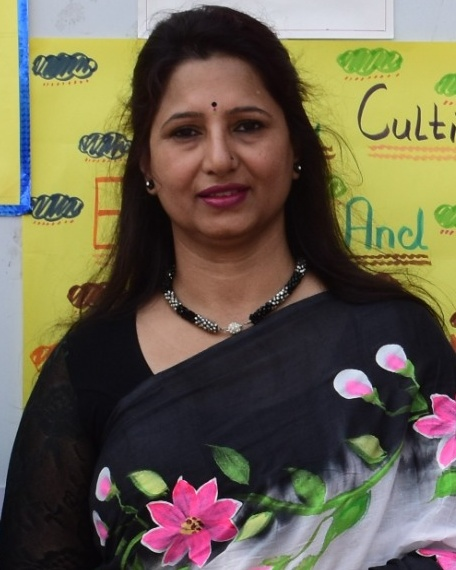
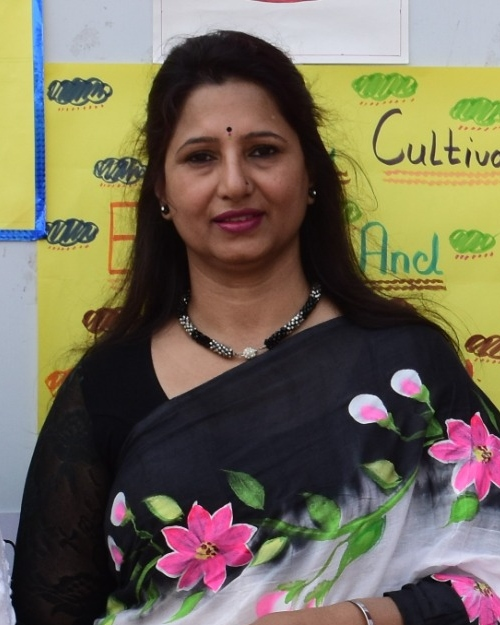
fix(layout): expand photo to occupy redmark box, preserve head alignment, and give full-screen view to all tab sections

diff --git a/index.html b/index.html
@@ -219,9 +219,9 @@
     </section>
 
     <!-- ----------------- 02. BEYOND THE TITLE ----------------- -->
-    <section id="the-person" class="py-16 sm:py-24 px-4 sm:px-6 lg:px-14 bg-ivory text-slate-900 relative">
-        <div class="max-w-7xl mx-auto">
-            <div class="text-center max-w-3xl mx-auto mb-10 sm:mb-16">
+    <section id="the-person" class="min-h-[85vh] flex flex-col justify-center py-16 sm:py-24 px-4 sm:px-6 lg:px-14 bg-ivory text-slate-900 relative">
+        <div class="max-w-7xl mx-auto w-full">
+            <div class="text-center max-w-3xl mx-auto mb-10 sm:mb-14">
                 <span class="section-tag section-tag-light">The Person</span>
                 <h2 class="text-2xl sm:text-4xl lg:text-5xl font-serif font-bold text-slate-900 mb-2">
                     Beyond the Principal’s Office
@@ -230,30 +230,32 @@
                     “A school leader is more than a designation.”
                 </p>
                 <div class="w-16 h-1 bg-gold mx-auto mb-5 sm:mb-6"></div>
-                <p id="person-lead-story" class="dropcap font-editorial text-lg sm:text-xl lg:text-2xl text-slate-700 leading-relaxed italic text-left sm:text-center">
+                <p id="person-lead-story" class="dropcap font-editorial text-lg sm:text-xl lg:text-2xl text-slate-700 leading-relaxed italic text-left sm:text-center max-w-4xl mx-auto">
                     <!-- Hydrated via profile-data.js -->
                 </p>
             </div>
 
             <!-- Content Grid: Photography + 4 Storytelling Cards -->
-            <div class="flex flex-col lg:flex-row items-center lg:items-stretch justify-center gap-6 lg:gap-8 max-w-5xl mx-auto">
-                <!-- Photography alongside text: adjusts to match 4 cards height -->
-                <div class="w-full max-w-[270px] sm:max-w-[280px] lg:w-[280px] flex-shrink-0 flex flex-col rounded-2xl overflow-hidden shadow-xl border-4 border-white bg-slate-100">
-                    <div class="relative w-full aspect-[4/5] lg:aspect-auto lg:flex-1 overflow-hidden min-h-[220px]">
-                        <img id="person-candid-img" 
-                             src="assets/images/varsha_phukane_candid_portrait.jpg?v=2" 
-                             alt="Varsha Phukane — Principal" 
-                             class="absolute inset-0 w-full h-full object-cover object-[50%_15%] block">
-                    </div>
-                    <div class="p-2.5 sm:p-3 bg-white/95 border-t border-slate-200 flex-shrink-0 text-center">
-                        <p id="person-candid-caption" class="text-xs font-semibold tracking-wide text-slate-800">
-                            Varsha Phukane — Principal, Educational Leader & Mentor
-                        </p>
+            <div class="grid grid-cols-1 lg:grid-cols-12 gap-6 lg:gap-8 items-stretch w-full max-w-6xl mx-auto">
+                <!-- Photography: Occupies full redmark area, perfectly matching cards top & bottom -->
+                <div class="lg:col-span-5 flex flex-col h-full w-full">
+                    <div class="relative w-full h-full flex flex-col rounded-2xl overflow-hidden shadow-xl border-4 border-white bg-slate-100">
+                        <div class="relative w-full aspect-[4/5] lg:aspect-auto lg:flex-1 overflow-hidden min-h-[260px]">
+                            <img id="person-candid-img" 
+                                 src="assets/images/varsha_phukane_candid_portrait.jpg?v=6" 
+                                 alt="Varsha Phukane — Principal" 
+                                 class="absolute inset-0 w-full h-full object-cover object-[50%_0%] block">
+                        </div>
+                        <div class="p-3 sm:p-3.5 bg-white/95 border-t border-slate-200 flex-shrink-0 text-center">
+                            <p id="person-candid-caption" class="text-xs sm:text-sm font-semibold tracking-wide text-slate-800 whitespace-nowrap">
+                                Varsha Phukane — Principal, Educational Leader & Mentor
+                            </p>
+                        </div>
                     </div>
                 </div>
 
                 <!-- 4 Editorial Cards: EDUCATOR, LEADER, MENTOR, LEARNER -->
-                <div id="person-cards-container" class="grid grid-cols-1 sm:grid-cols-2 gap-4 sm:gap-5 flex-1 w-full">
+                <div id="person-cards-container" class="lg:col-span-7 grid grid-cols-1 sm:grid-cols-2 gap-4 sm:gap-5 h-full">
                     <!-- Hydrated via profile-data.js -->
                 </div>
             </div>
@@ -261,10 +263,10 @@
     </section>
 
     <!-- ----------------- 03. MY JOURNEY ----------------- -->
-    <section id="journey" class="py-16 sm:py-24 px-4 sm:px-6 lg:px-14 bg-navy-dark relative overflow-hidden">
+    <section id="journey" class="min-h-[88vh] flex flex-col justify-center py-20 sm:py-28 px-4 sm:px-6 lg:px-14 bg-navy-dark relative overflow-hidden">
         <div class="glow-orb-gold -bottom-24 -right-24 opacity-40"></div>
 
-        <div class="max-w-7xl mx-auto relative z-10">
+        <div class="max-w-7xl mx-auto relative z-10 w-full">
             <div class="flex flex-col md:flex-row md:items-end justify-between mb-10 sm:mb-16 gap-4 sm:gap-6">
                 <div>
                     <span class="section-tag">Timeline</span>
@@ -289,8 +291,8 @@
     </section>
 
     <!-- ----------------- 04. LEADERSHIP PHILOSOPHY ----------------- -->
-    <section id="philosophy" class="py-16 sm:py-24 px-4 sm:px-6 lg:px-14 bg-cream text-slate-900 relative">
-        <div class="max-w-7xl mx-auto">
+    <section id="philosophy" class="min-h-[88vh] flex flex-col justify-center py-20 sm:py-28 px-4 sm:px-6 lg:px-14 bg-cream text-slate-900 relative">
+        <div class="max-w-7xl mx-auto w-full">
             <div class="text-center max-w-3xl mx-auto mb-10 sm:mb-16">
                 <span class="section-tag section-tag-light">Philosophy</span>
                 <h2 class="text-2xl sm:text-4xl lg:text-5xl font-serif font-bold text-slate-900 mb-2 sm:mb-3">
@@ -310,8 +312,8 @@
     </section>
 
     <!-- ----------------- 05. IMPACT ----------------- -->
-    <section id="impact" class="py-16 sm:py-24 px-4 sm:px-6 lg:px-14 bg-navy-deep relative">
-        <div class="max-w-7xl mx-auto">
+    <section id="impact" class="min-h-[88vh] flex flex-col justify-center py-20 sm:py-28 px-4 sm:px-6 lg:px-14 bg-navy-deep relative">
+        <div class="max-w-7xl mx-auto w-full">
             <div class="text-center max-w-3xl mx-auto mb-10 sm:mb-16">
                 <span class="section-tag">Quantitative Milestones</span>
                 <h2 class="text-2xl sm:text-4xl lg:text-5xl font-serif font-bold text-white mb-2 sm:mb-4">
@@ -340,7 +342,7 @@
     </section>
 
     <!-- ----------------- 06. SIGNATURE INITIATIVES ----------------- -->
-    <section id="initiatives" class="py-16 sm:py-24 px-4 sm:px-6 lg:px-14 bg-ivory text-slate-900 relative">
+    <section id="initiatives" class="min-h-[88vh] flex flex-col justify-center py-20 sm:py-28 px-4 sm:px-6 lg:px-14 bg-ivory text-slate-900 relative">
         <div class="max-w-7xl mx-auto">
             <div class="flex flex-col md:flex-row md:items-end justify-between mb-10 sm:mb-16 gap-4 sm:gap-6">
                 <div>
@@ -366,8 +368,8 @@
     </section>
 
     <!-- ----------------- 07. LIFE @ SCHOOL ----------------- -->
-    <section id="photo-story" class="py-16 sm:py-24 px-4 sm:px-6 lg:px-14 bg-navy-dark relative">
-        <div class="max-w-7xl mx-auto">
+    <section id="photo-story" class="min-h-[88vh] flex flex-col justify-center py-20 sm:py-28 px-4 sm:px-6 lg:px-14 bg-navy-dark relative">
+        <div class="max-w-7xl mx-auto w-full">
             <div class="text-center max-w-3xl mx-auto mb-8 sm:mb-10">
                 <span class="section-tag">Candid Culture</span>
                 <h2 class="text-2xl sm:text-4xl lg:text-5xl font-serif font-bold text-white mb-2 sm:mb-3">
@@ -391,8 +393,8 @@
     </section>
 
     <!-- ----------------- 08. BEYOND SCHOOL ----------------- -->
-    <section id="beyond-school" class="py-16 sm:py-24 px-4 sm:px-6 lg:px-14 bg-navy-deep relative">
-        <div class="max-w-7xl mx-auto">
+    <section id="beyond-school" class="min-h-[88vh] flex flex-col justify-center py-20 sm:py-28 px-4 sm:px-6 lg:px-14 bg-navy-deep relative">
+        <div class="max-w-7xl mx-auto w-full">
             <div class="text-center max-w-3xl mx-auto mb-10 sm:mb-16">
                 <span class="section-tag">The Human Dimension</span>
                 <h2 class="text-2xl sm:text-4xl lg:text-5xl font-serif font-bold text-white mb-2 sm:mb-3">
@@ -411,8 +413,8 @@
     </section>
 
     <!-- ----------------- 09. THE PRINCIPAL'S VOICE ----------------- -->
-    <section id="thoughts" class="py-16 sm:py-24 px-4 sm:px-6 lg:px-14 bg-cream text-slate-900 relative">
-        <div class="max-w-7xl mx-auto">
+    <section id="thoughts" class="min-h-[88vh] flex flex-col justify-center py-20 sm:py-28 px-4 sm:px-6 lg:px-14 bg-cream text-slate-900 relative">
+        <div class="max-w-7xl mx-auto w-full">
             <div class="flex flex-col md:flex-row md:items-end justify-between mb-10 sm:mb-16 gap-4 sm:gap-6">
                 <div>
                     <span class="section-tag section-tag-light">Intellectual Identity</span>
@@ -437,7 +439,7 @@
     </section>
 
     <!-- ----------------- 10. FINAL SIGNATURE SECTION ----------------- -->
-    <section id="contact" class="relative py-20 sm:py-28 px-4 sm:px-6 lg:px-14 bg-navy-deep text-white overflow-hidden">
+    <section id="contact" class="min-h-[90vh] flex flex-col justify-center relative py-20 sm:py-28 px-4 sm:px-6 lg:px-14 bg-navy-deep text-white overflow-hidden">
         <div class="glow-orb-gold top-1/4 left-1/2 -translate-x-1/2 opacity-30"></div>
 
         <div class="max-w-4xl mx-auto text-center relative z-10 space-y-6 sm:space-y-8">

diff --git a/js/profile-data.js b/js/profile-data.js
@@ -23,7 +23,7 @@ const PRINCIPAL_DATA = {
         heading: "Beyond the Principal’s Office",
         supportingLine: "A school leader is more than a designation.",
         narrative: "A school is not just an administrative building; it is a living community where young minds are nurtured, teachers are empowered, and possibilities are opened. Leadership in education is an act of stewardship—guiding people with empathy, conviction, and an enduring faith in human potential.",
-        portrait: "assets/images/varsha_phukane_candid_portrait.jpg?v=2",
+        portrait: "assets/images/varsha_phukane_candid_portrait.jpg?v=6",
         portraitCaption: "Varsha Phukane — Principal, Educational Leader & Mentor",
         cards: [
             {
